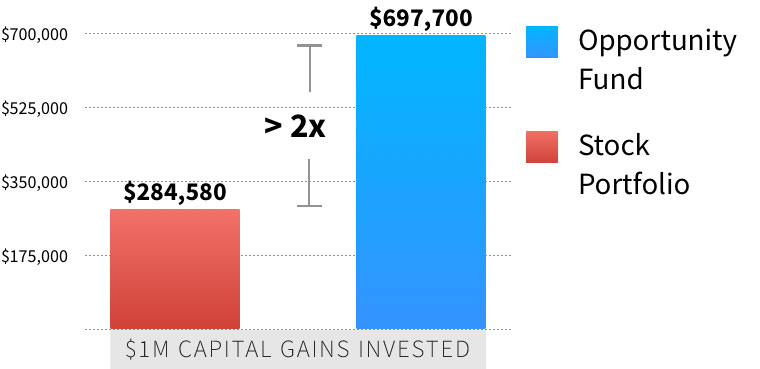
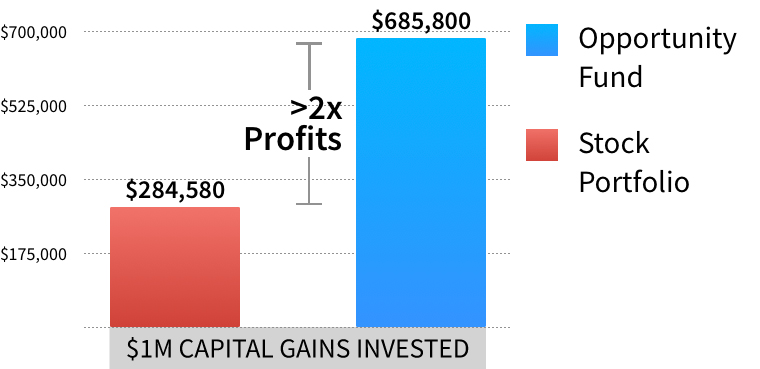
change 85 to 90

diff --git a/app/public/wp-content/themes/amera/js/calculator.js b/app/public/wp-content/themes/amera/js/calculator.js
@@ -18,7 +18,7 @@ function calculate () {
   let capAvail = initialGain - initialFedTax;
   let newValue = capAvail * (1+ .09 * 10);
   let newValueB = initialGain * (1+ .09 * 10);
-  let tax85 = initialFedTax * .85
+  let tax85 = initialFedTax * .9
   let tax2029 = (newValue - capAvail) * .238;
   let afterTax = newValue - tax2029;
   let afterTaxB = newValueB - tax85;
@@ -74,7 +74,7 @@ function calculate () {
   let capAvailS = initialGain - initialFedTaxS;
   let newValueS = capAvailS * (1+ .09 * 10);
   let newValueBS = initialGain * (1+ .09 * 10);
-  let tax85S = initialFedTaxS * .85
+  let tax85S = initialFedTaxS * .9;
   let tax2029S = (newValueS - capAvailS) * .238;
   let afterTaxS = newValueS - tax2029S;
   let afterTaxBS = newValueBS - tax85S;

diff --git a/app/public/wp-content/themes/amera/js/calculator2.js b/app/public/wp-content/themes/amera/js/calculator2.js
@@ -18,7 +18,7 @@ function calculateS () {
   let capAvailS = initialGain - initialFedTaxS;
   let newValueS = capAvailS * (1+ .09 * 10);
   let newValueBS = initialGain * (1+ .09 * 10);
-  let tax85S = initialFedTaxS * .85
+  let tax85S = initialFedTaxS * .9
   let tax2029S = (newValueS - capAvailS) * .238;
   let afterTaxS = newValueS - tax2029S;
   let afterTaxBS = newValueBS - tax85S;

diff --git a/app/public/wp-content/themes/amera/page-opportunity.php b/app/public/wp-content/themes/amera/page-opportunity.php
@@ -218,7 +218,7 @@ get_header('landing');
               <div class="separator-gradient my-4"></div>
               <h2 class="pb-2">Why Invest in Opportunity Funds?</h2>
               <p class="">
-                Opportunity Funds allow investors to (1) pay zero federal taxes on profits from an Opportunity Fund if held for 10 years and (2) defer federal taxes on any current capital gain taxes until 2027 while reducing that tax payment by 15%.
+                Opportunity Funds allow investors to (1) pay zero federal taxes on profits from an Opportunity Fund if held for 10 years and (2) defer federal taxes on any current capital gain taxes until 2027 while reducing that tax payment by 10%.
               </p>
             </div>
             <div class="d-none d-md-block col-md-4 text-center">
@@ -235,7 +235,7 @@ get_header('landing');
           </h4>
           <div class="pb-5">
             <h4><span class="color-blue" style="font-weight:700">1. Elimination</span> - No federal taxes on profits from an opportunity fund when held 10+ years</h4>
-            <h4><span class="color-red" style="font-weight:700">2. Deferment and Reduction</span> of original capital gain taxes: Not due until 2027 with a 15% reduction</h4>
+            <h4><span class="color-red" style="font-weight:700">2. Deferment and Reduction</span> of original capital gain taxes: Not due until 2027 with a 10% reduction</h4>
           </div>
           <section class="container-fluid border-top--light mt-5 section-advantage">
             <div class="container position-relative ">
@@ -265,11 +265,11 @@ get_header('landing');
                 <h1 class="pb-2 pb-sm-3">Deferral &amp; Reduction</h1>
                 <p class="color-dark">
                   <span style="font-weight: 700">
-                    Any capital gain invested into an opportunity fund within 180 days of realization will be tax deferred. This current capital gain tax obligation is reduced 15% when paid in 2027 (with inflated dollars).
+                    Any capital gain invested into an opportunity fund within 180 days of realization will be tax deferred. This current capital gain tax obligation is reduced 10% when paid in 2027 (with inflated dollars).
                   </span>
                 </p>
                 <p>
-                  An investor with capital gains from any source, such as the sale of stock, real estate, jewelry, artwork, etc. is not required to pay taxes on that gain until 2027 if it is placed into an Opportunity Fund. When paid in 2027, this original capital gain tax is reduced 15% and paid in inflated dollars.
+                  An investor with capital gains from any source, such as the sale of stock, real estate, jewelry, artwork, etc. is not required to pay taxes on that gain until 2027 if it is placed into an Opportunity Fund. When paid in 2027, this original capital gain tax is reduced 10% and paid in inflated dollars.
                 </p>  
               </dv>
             </div>
@@ -287,7 +287,7 @@ get_header('landing');
 
         <div class="container mt-5">
           <p class="py-5 text-center">
-            If a long term sale results in $1,000,000 profit and $238,000 federal capital gain taxes (23.8%), invest all of the $1,000,000 gain into an Opportunity Fund. Assuming an annual return rate of 9% simple, the post-tax value of the investment after 10 years is $1,900,000. The investor pays <span class="color-blue"><strong>zero federal taxes</strong></span> on this gain. The only tax liability is $202,300, <span class="color-red"><strong>deferred until 2027 and a 15% reduced amount,</strong></span> from what would have currently been paid. As a result, post-tax earnings are more than <strong>double</strong> had they invested elsewhere.
+            If a long term sale results in $1,000,000 profit and $238,000 federal capital gain taxes (23.8%), invest all of the $1,000,000 gain into an Opportunity Fund. Assuming an annual return rate of 9% simple, the post-tax value of the investment after 10 years is $1,900,000. The investor pays <span class="color-blue"><strong>zero federal taxes</strong></span> on this gain. The only tax liability is $214,200, <span class="color-red"><strong>deferred until 2027 and a 10% reduced amount,</strong></span> from what would have currently been paid. As a result, post-tax earnings are more than <strong>double</strong> had they invested elsewhere.
           </p>
           <h2 class="py-4 text-center">
             After-Tax Net Profit Comparison

diff --git a/app/public/wp-content/themes/amera/page-opportunity-fund.php b/app/public/wp-content/themes/amera/page-opportunity-fund.php
@@ -53,7 +53,7 @@ get_header();
             </p>
             <h2 class="pb-2">Why Invest in Opportunity Funds?</h2>
             <p class="pb-2">
-              Opportunity Funds allow investors to (1) pay zero federal taxes on profits from an Opportunity Fund if held for 10 years and (2) defer federal taxes on any current capital gain taxes until 2027 while reducing that tax payment by 15%.
+              Opportunity Funds allow investors to (1) pay zero federal taxes on profits from an Opportunity Fund if held for 10 years and (2) defer federal taxes on any current capital gain taxes until 2027 while reducing that tax payment by 10%.
             </p>
           </div>
           <div class="d-none d-md-block col-md-5 text-center">
@@ -87,7 +87,7 @@ get_header();
                 <h5 class="card-header card-header-two bg-red"><span style="font-weight:700">Defer &amp; Reduce</span> Current Federal Capital Gain Taxes</h5>
                 <div class="card-body">
                   <h5 class="card-title">Capital gains from the prior 180 days placed into an Opportunity Fund are allowed to defer
-                    federal tax payment until 2027 and reduce that payment by 15%.
+                    federal tax payment until 2027 and reduce that payment by 10%.
                   </h5>
                 </div>
               </div>
@@ -102,7 +102,7 @@ get_header();
       <section id="example" class="container text-center pb-0 pt-5 mt-5">
         <h1 class="pb-5">Example</h1>
         <p class="pb-5">
-            If a long term sale results in $1,000,000 profit and $238,000 federal capital gain taxes (23.8%), invest all of the $1,000,000 gain into an Opportunity Fund. Assuming an annual return rate of 9% simple, the post-tax value of the investment after 10 years is $1,900,000. The investor pays <span class="color-blue"><strong>zero federal taxes</strong></span> on this gain. The only tax liability is $202,300, <span class="color-red"><strong>deferred until 2027 and a 15% reduced amount,</strong></span> from what would have currently been paid. As a result, post-tax earnings are more than <strong>double</strong> had they invested elsewhere.
+            If a long term sale results in $1,000,000 profit and $238,000 federal capital gain taxes (23.8%), invest all of the $1,000,000 gain into an Opportunity Fund. Assuming an annual return rate of 9% simple, the post-tax value of the investment after 10 years is $1,900,000. The investor pays <span class="color-blue"><strong>zero federal taxes</strong></span> on this gain. The only tax liability is $214,200, <span class="color-red"><strong>deferred until 2027 and a 10% reduced amount,</strong></span> from what would have currently been paid. As a result, post-tax earnings are more than <strong>double</strong> had they invested elsewhere.
         </p>
         <hr class="pb-4"/>
         <div class="container calc__container mb-5">
@@ -180,13 +180,13 @@ get_header();
                       
             <div class="row calc__row">
               <div class="col-12 col-md-6 calc__col ">
-                Top Federal Tax on 85% of Original Gain due 2027
+                Top Federal Tax on 90% of Original Gain due 2027
               </div>
               <div class="col-6 col-md-3 calc__col ">
                 -
               </div>
               <div class="col-6 col-md-3 calc__col ">
-                (202,300) 
+                (214,200) 
               </div>
             </div> <!--End Row-->
                       
@@ -210,7 +210,7 @@ get_header();
                 $1,284,580
               </div>
               <div class="col-6 col-md-3 calc__col  ">
-                $1,697,700
+                $1,685,800
               </div>
             </div> <!--End Row-->
 
@@ -234,7 +234,7 @@ get_header();
                 <strong>$284,580</strong>
               </div>
               <div class="col-6 col-md-3 calc__col ">
-                <strong>$697,700</strong>
+                <strong>$685,800</strong>
               </div>
             </div> <!--End Row-->
           </div>

diff --git a/app/public/wp-content/themes/amera/page-tax-advantage.php b/app/public/wp-content/themes/amera/page-tax-advantage.php
@@ -34,7 +34,7 @@ get_header();
               were created:
             </h3>
             <p><span class="color-blue" style="font-weight:700">1. Elimination</span> - No federal taxes on profits from an opportunity fund when held 10+ years</p>
-            <p><span class="color-red" style="font-weight:700">2. Deferment and Reduction</span> of original capital gain taxes: Not due until 2027 with a 15% reduction</p>
+            <p><span class="color-red" style="font-weight:700">2. Deferment and Reduction</span> of original capital gain taxes: Not due until 2027 with a 10% reduction</p>
           </div>
         </div>
       </section> <!-- /container -->
@@ -67,11 +67,11 @@ get_header();
             <h1 class="pb-2 pb-sm-3">Deferral &amp; Reduction</h1>
             <p class="color-dark">
               <span style="font-weight: 700">
-                Any capital gain invested into an opportunity fund within 180 days of realization will be tax deferred. This current capital gain tax obligation is reduced 15% when paid in 2027 (with inflated dollars).
+                Any capital gain invested into an opportunity fund within 180 days of realization will be tax deferred. This current capital gain tax obligation is reduced 10% when paid in 2027 (with inflated dollars).
               </span>
             </p>
             <p>
-              An investor with capital gains from any source, such as the sale of stock, real estate, jewelry, artwork, etc. is not required to pay taxes on that gain until 2027 if it is placed into an Opportunity Fund. When paid in 2027, this original capital gain tax is reduced 15% and paid in inflated dollars. <a href="/opportunity-fund#example">Click here for an example.</a>
+              An investor with capital gains from any source, such as the sale of stock, real estate, jewelry, artwork, etc. is not required to pay taxes on that gain until 2027 if it is placed into an Opportunity Fund. When paid in 2027, this original capital gain tax is reduced 10% and paid in inflated dollars. <a href="/opportunity-fund#example">Click here for an example.</a>
             </p>  
           </dv>
         </div>
@@ -110,7 +110,7 @@ get_header();
           <div class="col-sm-4 col-md-3 text-left order-2">
             <p>
               <span class="color-dark"><strong>2027</strong></span> - Deferred tax on original gain is paid in April 2027 dollars
-              and <span class="color-red"><strong>REDUCED</strong></span> by 15%.
+              and <span class="color-red"><strong>REDUCED</strong></span> by 10%.
             </p>
           </div>
         </div>

diff --git a/app/public/wp-content/themes/amera/page-home.php b/app/public/wp-content/themes/amera/page-home.php
@@ -13,16 +13,6 @@
 get_header();
 ?>
 
-<script type="text/javascript">
-      <!--
-          function toggle_visibility(id) {
-            var e = document.getElementById(id);
-                e.style.display = 'none';
-                document.getElementById("video-iframe").style.display = 'block';
-          }
-      //-->
-      </script>
-
 <main role="main">
 
       <div class="window-frame"></div>
@@ -72,7 +62,6 @@ get_header();
 
       <section id="video" class="container-fluid bg-grey border-top py-5">
         <div class="container text-center home-video-container mt-5">
-        <!--<a id="video-img" onclick="toggle_visibility('video-img');"><img src="<?php bloginfo('template_directory'); ?>/assets/img/general/iso-1.png" width="100%" /></a>-->
         <iframe id="video-iframe" src="https://www.youtube.com/embed/4frFUJLN_2g?rel=0&modestbranding=1&autohide=1&fs=1" frameborder="0" allow="accelerometer; autoplay; encrypted-media; gyroscope; picture-in-picture" allowfullscreen></iframe>
         </div>
           

diff --git a/app/public/wp-content/themes/amera/page-about.php b/app/public/wp-content/themes/amera/page-about.php
@@ -135,12 +135,12 @@ get_header();
             <div class="col-12 col-sm-5 col-md border-all bg-white m-1 bio-card" data-toggle="modal" data-target="#will">
               <img class="team--img my-5" src="<?php bloginfo('template_directory'); ?>/assets/img/headshot/headshot-will.png" />
               <h5>Will Caulfield</h5>
-              <p>Director of Communications, American Group</p>
+              <p>Marketing Director, Investor Relations, American Group</p>
             </div>
             <div class="col-12 col-sm-5 col-md border-all bg-white m-1 bio-card" data-toggle="modal" data-target="#devan">
               <img class="team--img my-5" src="<?php bloginfo('template_directory'); ?>/assets/img/headshot/headshot-devan.png" />
               <h5>Devan Makwana</h5>
-              <p>Lead Developer, American Group</p>
+              <p>Developer, American Group</p>
             </div>
           </div>
           <div class="row mt-5 justify-content-center">

diff --git a/app/public/wp-content/themes/amera/section-calcLong.php b/app/public/wp-content/themes/amera/section-calcLong.php
@@ -73,13 +73,13 @@
               
     <div class="row calc__row">
       <div class="col-12 col-md-6 calc__col ">
-        Top Federal Tax on 85% of Original Gain due 2027
+        Top Federal Tax on 90% of Original Gain due 2027
       </div>
       <div class="col-6 col-md-3 calc__col ">
         -
       </div>
       <div class="col-6 col-md-3 calc__col" id="tax85">
-        (202,300) 
+        (214,200) 
       </div>
     </div> <!--End Row-->
               
@@ -103,7 +103,7 @@
         $1,284,580
       </div>
       <div class="col-6 col-md-3 calc__col" id="afterTaxB">
-        $1,697,700
+        $1,685,800
       </div>
     </div> <!--End Row-->
 
@@ -127,7 +127,7 @@
         <strong>$284,580</strong>
       </div>
       <div class="col-6 col-md-3 calc__col" id="netProfitB">
-        <strong>$697,700</strong>
+        <strong>$685,800</strong>
       </div>
     </div> <!--End Row-->
   </div>

diff --git a/app/public/wp-content/themes/amera/section-calcShort.php b/app/public/wp-content/themes/amera/section-calcShort.php
@@ -73,13 +73,13 @@
               
     <div class="row calc__row">
       <div class="col-12 col-md-6 calc__col ">
-        Top Federal Tax on 85% of Original Gain due 2027
+        Top Federal Tax on 90% of Original Gain due 2027
       </div>
       <div class="col-6 col-md-3 calc__col ">
         -
       </div>
       <div class="col-6 col-md-3 calc__col" id="tax85S">
-        (346,800) 
+        (367,200) 
       </div>
     </div> <!--End Row-->
               
@@ -103,7 +103,7 @@
         $997,994
       </div>
       <div class="col-6 col-md-3 calc__col" id="afterTaxBS">
-        $1,553,200
+        $1,532,800
       </div>
     </div> <!--End Row-->
 
@@ -127,7 +127,7 @@
         <strong>-$2,006</strong>
       </div>
       <div class="col-6 col-md-3 calc__col" id="netProfitBS">
-        <strong>$553,200</strong>
+        <strong>$532,800</strong>
       </div>
     </div> <!--End Row-->
   </div>

diff --git a/app/public/wp-content/themes/amera/page-1031-exchange.php b/app/public/wp-content/themes/amera/page-1031-exchange.php
@@ -177,7 +177,7 @@ get_header();
                   Upon death
                 </div>
                 <div class="col-6 col-md-5 calc__col calc__col--blue">
-                  Basis step-ups of up to 15% in year 7
+                  Basis step-ups of up to 10% in year 5
                 </div>
               </div> <!--End Row-->
 
